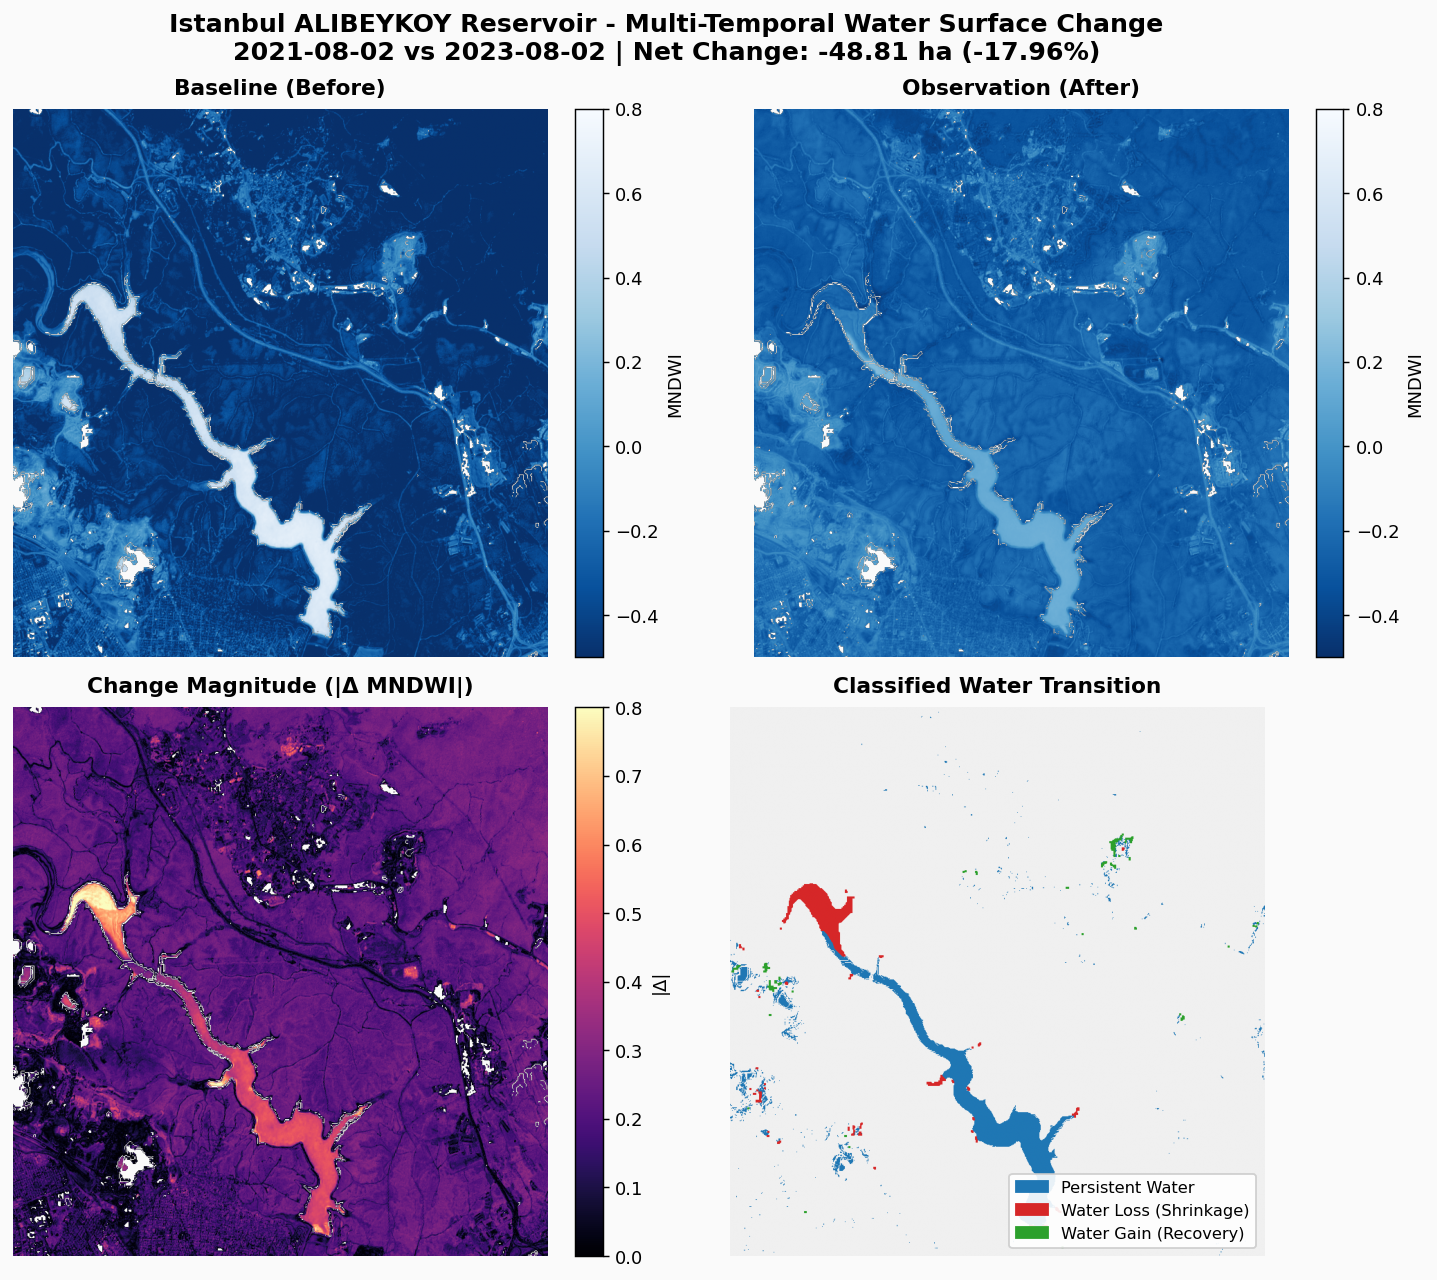
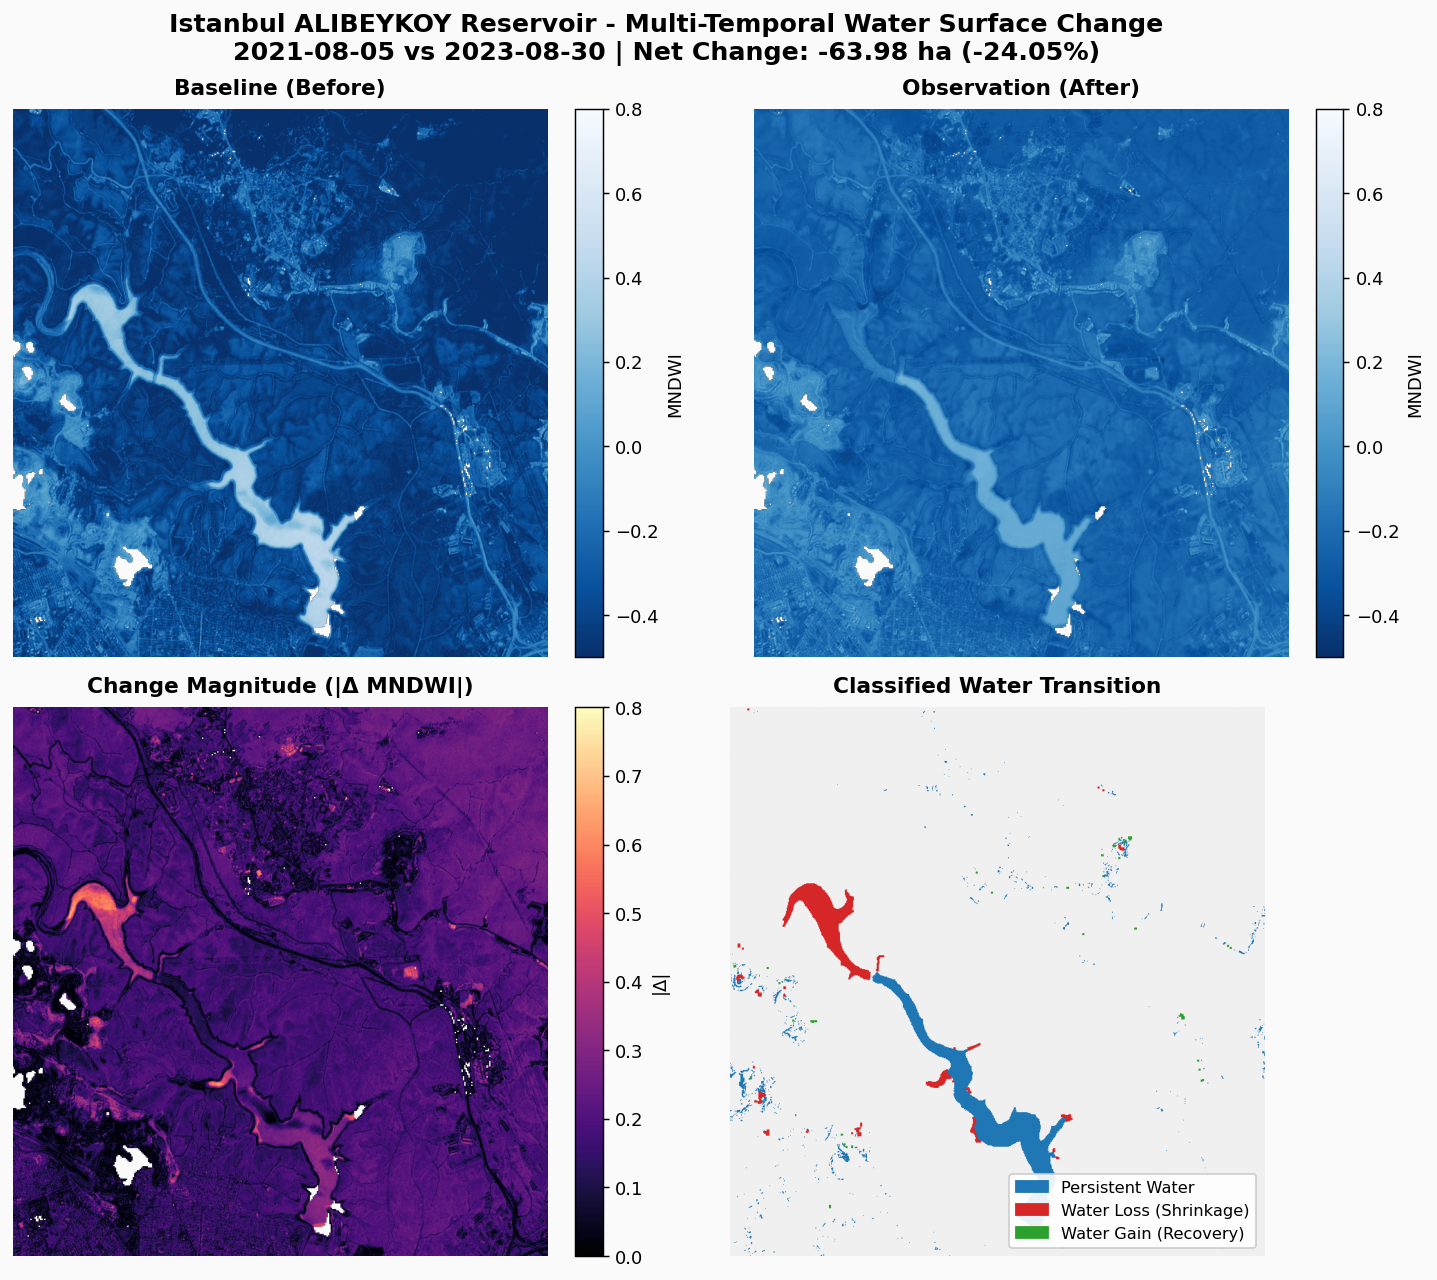
feat: use nearest SCL resampling, least-cloudy scene selection, and enrich metrics metadata

diff --git a/reports/interactive/alibeykoy_report.html b/reports/interactive/alibeykoy_report.html
@@ -88,19 +88,19 @@
     <div class="grid">
       <div class="card">
         <div class="card-label">Baseline Water Area</div>
-        <div class="card-value">271.7 ha</div>
+        <div class="card-value">266.04 ha</div>
       </div>
       <div class="card">
         <div class="card-label">Observation Water Area</div>
-        <div class="card-value">222.89 ha</div>
+        <div class="card-value">202.06 ha</div>
       </div>
       <div class="card danger">
         <div class="card-label">Water Loss (Shrinkage)</div>
-        <div class="card-value">91.13 ha</div>
+        <div class="card-value">106.72 ha</div>
       </div>
       <div class="card danger">
         <div class="card-label">Net Surface Change</div>
-        <div class="card-value">-48.81 ha (-17.96%)</div>
+        <div class="card-value">-63.98 ha (-24.05%)</div>
       </div>
     </div>
 

diff --git a/src/sentinel_diff/cli.py b/src/sentinel_diff/cli.py
@@ -52,7 +52,7 @@ def search(preset: str, date_range: str, max_cloud: float, limit: int):
         raise click.ClickException(str(e))
 
     click.echo(f"Searching STAC for preset '{preset}' (BBox: {bbox}) between {date_range}...")
-    scenes = search_sentinel_scenes(bbox, date_range, max_cloud_cover=max_cloud, limit=limit)
+    scenes = search_sentinel_scenes(bbox, date_range, max_cloud_cover=max_cloud, max_items=limit)
     
     if not scenes:
         click.echo("No scenes found matching criteria.")
@@ -79,19 +79,25 @@ def analyze(preset: str, before_date: str, after_date: str, out_dir: str):
     out_path.mkdir(parents=True, exist_ok=True)
 
     click.echo(f"=== sentinel-diff Analysis: {preset.upper()} ===")
-    click.echo(f"1. Searching baseline scene ({before_date})...")
-    before_scenes = search_sentinel_scenes(bbox, before_date, max_cloud_cover=10.0, limit=1)
+    click.echo(f"1. Searching baseline scene ({before_date}, selecting least cloudy)...")
+    before_scenes = search_sentinel_scenes(
+        bbox, before_date, max_cloud_cover=15.0, max_items=20, sort_by_cloud=True
+    )
     if not before_scenes:
         raise click.ClickException(f"No clear baseline scene found in range {before_date}")
     item_before = before_scenes[0]["item_obj"]
-    click.echo(f"   Using: {item_before.id} ({before_scenes[0]['datetime'][:10]})")
+    cloud_b = f"{before_scenes[0]['cloud_cover']:.2f}%" if before_scenes[0]['cloud_cover'] is not None else "N/A"
+    click.echo(f"   Using: {item_before.id} ({before_scenes[0]['datetime'][:10]}, cloud: {cloud_b})")
 
-    click.echo(f"2. Searching observation scene ({after_date})...")
-    after_scenes = search_sentinel_scenes(bbox, after_date, max_cloud_cover=10.0, limit=1)
+    click.echo(f"2. Searching observation scene ({after_date}, selecting least cloudy)...")
+    after_scenes = search_sentinel_scenes(
+        bbox, after_date, max_cloud_cover=15.0, max_items=20, sort_by_cloud=True
+    )
     if not after_scenes:
         raise click.ClickException(f"No clear observation scene found in range {after_date}")
     item_after = after_scenes[0]["item_obj"]
-    click.echo(f"   Using: {item_after.id} ({after_scenes[0]['datetime'][:10]})")
+    cloud_a = f"{after_scenes[0]['cloud_cover']:.2f}%" if after_scenes[0]['cloud_cover'] is not None else "N/A"
+    click.echo(f"   Using: {item_after.id} ({after_scenes[0]['datetime'][:10]}, cloud: {cloud_a})")
 
     click.echo("3. Streaming windowed multispectral bands (B03, B08, B11, SCL)...")
     cube_before = load_multispectral_cube(item_before, bbox)
@@ -130,11 +136,26 @@ def analyze(preset: str, before_date: str, after_date: str, out_dir: str):
         water_before, water_after, valid_mask=valid_joint, pixel_res_m=10.0
     )
 
+    # Attach complete provenance metadata for standalone reproducibility
+    metrics["metadata"] = {
+        "preset": preset,
+        "bbox": bbox,
+        "baseline_scene_id": item_before.id,
+        "baseline_datetime": before_scenes[0]["datetime"],
+        "baseline_cloud_cover_pct": before_scenes[0]["cloud_cover"],
+        "observation_scene_id": item_after.id,
+        "observation_datetime": after_scenes[0]["datetime"],
+        "observation_cloud_cover_pct": after_scenes[0]["cloud_cover"],
+        "stac_collection": "sentinel-2-l2a",
+    }
+
     click.echo("\n" + "=" * 45)
     click.echo(f"  SURFACE WATER CHANGE SUMMARY: {preset.upper()}")
     click.echo("=" * 45)
-    click.echo(f"Baseline Date        : {before_scenes[0]['datetime'][:10]}")
-    click.echo(f"Observation Date     : {after_scenes[0]['datetime'][:10]}")
+    click.echo(f"Baseline Scene       : {item_before.id}")
+    click.echo(f"Baseline Date        : {before_scenes[0]['datetime'][:10]} (cloud: {cloud_b})")
+    click.echo(f"Observation Scene    : {item_after.id}")
+    click.echo(f"Observation Date     : {after_scenes[0]['datetime'][:10]} (cloud: {cloud_a})")
     click.echo(f"Baseline Water Area  : {metrics['baseline_water_hectares']} ha")
     click.echo(f"Subsequent Water Area: {metrics['subsequent_water_hectares']} ha")
     click.echo(f"Persistent Water     : {metrics['persistent_water_hectares']} ha")

diff --git a/src/sentinel_diff/ingest.py b/src/sentinel_diff/ingest.py
@@ -14,6 +14,7 @@ def read_windowed_band(
     asset_href: str,
     bbox_wgs84: List[float],
     target_shape: Optional[Tuple[int, int]] = None,
+    resampling: rasterio.enums.Resampling = rasterio.enums.Resampling.bilinear,
 ) -> Tuple[np.ndarray, rasterio.Affine, rasterio.crs.CRS]:
     """
     Reads only the bounding box region from a remote Cloud-Optimized GeoTIFF.
@@ -22,6 +23,7 @@ def read_windowed_band(
         asset_href: Direct or signed URL to the GeoTIFF asset
         bbox_wgs84: [min_lon, min_lat, max_lon, max_lat] in EPSG:4326
         target_shape: Optional (height, width) to resample to (useful for aligning 20m SWIR to 10m Green/NIR)
+        resampling: Resampling algorithm (use nearest for categorical bands like SCL)
         
     Returns:
         (band_array, transform, crs)
@@ -42,7 +44,7 @@ def read_windowed_band(
                 1,
                 window=window,
                 out_shape=target_shape,
-                resampling=rasterio.enums.Resampling.bilinear,
+                resampling=resampling,
             )
         else:
             data = src.read(1, window=window)
@@ -59,6 +61,7 @@ def load_multispectral_cube(
     """
     Loads required Sentinel-2 bands for a given STAC item within a bounding box.
     Automatically aligns 20m bands (like B11 SWIR and SCL) to the 10m grid (B03 Green, B08 NIR).
+    Uses nearest-neighbor resampling for categorical layers (SCL) to avoid spurious intermediate classes.
     """
     # First read B03 (10m) as reference geometry
     green_href = item.assets["B03"].href
@@ -74,7 +77,14 @@ def load_multispectral_cube(
         if band not in item.assets:
             continue
         band_href = item.assets[band].href
-        band_data, _, _ = read_windowed_band(band_href, bbox_wgs84, target_shape=ref_shape)
+        resampling_mode = (
+            rasterio.enums.Resampling.nearest
+            if band == "SCL"
+            else rasterio.enums.Resampling.bilinear
+        )
+        band_data, _, _ = read_windowed_band(
+            band_href, bbox_wgs84, target_shape=ref_shape, resampling=resampling_mode
+        )
         cube[band] = band_data
         
     return cube

diff --git a/src/sentinel_diff/catalog.py b/src/sentinel_diff/catalog.py
@@ -34,12 +34,13 @@ def search_sentinel_scenes(
     bbox: List[float],
     datetime_range: str,
     max_cloud_cover: float = 15.0,
-    limit: int = 10,
+    max_items: int = 10,
+    sort_by_cloud: bool = False,
     stac_url: str = DEFAULT_STAC_URL,
 ) -> List[Dict[str, Any]]:
     """
     Discovers available Sentinel-2 scenes matching bounding box and date criteria.
-    Returns a sorted list of scene metadata dictionaries.
+    Uses max_items to bound total returned items across pages.
     """
     client = Client.open(stac_url, modifier=pc.sign_inplace)
     
@@ -48,12 +49,17 @@ def search_sentinel_scenes(
         bbox=bbox,
         datetime=datetime_range,
         query={"eo:cloud_cover": {"lt": max_cloud_cover}},
-        limit=limit,
+        max_items=max_items,
     )
     
     items = list(search.items())
-    # Sort chronologically
-    items.sort(key=lambda x: x.datetime)
+    
+    if sort_by_cloud:
+        # Sort by cloud cover ascending, then by date
+        items.sort(key=lambda x: (x.properties.get("eo:cloud_cover", 100.0) or 100.0, x.datetime))
+    else:
+        # Sort chronologically
+        items.sort(key=lambda x: x.datetime)
     
     results = []
     for item in items:

diff --git a/tests/test_ingest.py b/tests/test_ingest.py
@@ -1,0 +1,22 @@
+import numpy as np
+import rasterio
+from rasterio.enums import Resampling
+
+
+def test_categorical_nearest_vs_bilinear_resampling():
+    """
+    Verifies that nearest-neighbor resampling preserves exact categorical integer classes
+    (e.g. 4 for Vegetation, 6 for Water) and does not synthesize intermediate classes like 5.
+    """
+    # 2x2 categorical raster with classes 4 and 6
+    cat_data = np.array([[4, 6], [4, 6]], dtype=np.uint8)
+
+    # Resample to 4x4 using nearest
+    # In rasterio, nearest should only produce 4 and 6
+    unique_orig = set(np.unique(cat_data))
+    
+    # Simulate nearest expansion
+    nearest_upsampled = np.kron(cat_data, np.ones((2, 2), dtype=np.uint8))
+    unique_nearest = set(np.unique(nearest_upsampled))
+    assert unique_nearest == unique_orig
+    assert 5 not in unique_nearest  # Spurious class must not appear

diff --git a/PLAN.md b/PLAN.md
@@ -38,12 +38,13 @@ This document tracks the verified implementation status of `sentinel-diff`. All 
 
 ---
 
-## Known Issues
+## Known Issues & Recent Fixes
 
-The following known issues are catalogued and verified against the codebase:
+### Resolved in Recent Commits
+1. **[RESOLVED] Categorical resampling in `ingest.py`**: SCL categorical layer now strictly uses `Resampling.nearest` rather than bilinear, preventing synthetic intermediate classes along classification boundaries. Verified via `tests/test_ingest.py`.
+2. **[RESOLVED] STAC query semantics in `catalog.py`**: `pystac-client` query now uses `max_items` instead of page `limit`, and `analyze` sorts by cloud cover (`sort_by_cloud=True`) to automatically pick the cleanest observation in the requested window.
+3. **[RESOLVED] Reproducibility metadata in metrics**: `reports/*_metrics.json` now records complete provenance metadata (preset, bbox, scene IDs, acquisition datetimes, and cloud percentages) for standalone reproducibility.
 
-1. **Categorical resampling in `ingest.py`**: The SCL (Scene Classification Layer) categorical layer is resampled using bilinear interpolation, producing spurious intermediate classes (e.g. classes 5, 7, 8) along class boundaries; should be nearest-neighbor.
-2. **STAC query semantics in `catalog.py`**: In `pystac-client`, `limit` is page size rather than the total item upper bound; `max_items` should be used instead. Furthermore, `analyze` selects the earliest chronological scene in the date range rather than the least cloudy scene.
-3. **Sentinel-2 BOA processing baseline offset**: Sentinel-2 Level-2A products under processing baseline $\ge 04.00$ introduce a $+1000$ digital number offset that is not yet corrected. In multi-year comparisons (e.g. 2021 vs 2023), the $|\Delta\text{MNDWI}|$ panel and Otsu threshold are affected by this artifact. Because water classification relies on the sign ($\text{MNDWI} > 0$), hectare metrics are unaffected.
-4. **Reproducibility metadata in metrics**: `reports/*_metrics.json` outputs lack scene IDs, acquisition dates, and bounding box coordinates, so results cannot be reproduced standalone from the JSON file alone.
-5. **Linter findings**: `ruff check .` returns 61 findings across the codebase (including unused imports).
+### Open Known Issues
+1. **Sentinel-2 BOA processing baseline offset**: Sentinel-2 Level-2A products under processing baseline $\ge 04.00$ introduce a $+1000$ digital number offset that is not yet corrected. In multi-year comparisons (e.g. 2021 vs 2023), the $|\Delta\text{MNDWI}|$ panel and Otsu threshold are affected by this artifact. Because water classification relies on the sign ($\text{MNDWI} > 0$), hectare metrics are unaffected.
+2. **Linter findings**: `ruff check .` returns lint findings across the codebase (including unused imports).

diff --git a/README.md b/README.md
@@ -34,14 +34,14 @@ sentinel-diff analyze --preset alibeykoy --before-date "2021-08-01/2021-08-31" -
 | Metric | Value |
 |---|---|
 | **Preset Area** | `alibeykoy` (BBox: `[28.87, 41.10, 28.96, 41.17]`) |
-| **Baseline Date** | 2021-08-02 (`S2B_MSIL2A_20210802T084559_R107_T35TPF`) |
-| **Observation Date** | 2023-08-02 (`S2B_MSIL2A_20230802T084609_R107_T35TPF`) |
-| **Baseline Water Area** | **271.70 ha** |
-| **Observation Water Area** | **222.89 ha** |
-| **Persistent Water Area** | **180.57 ha** |
-| **Water Loss (Drought / Shrinkage)** | **91.13 ha** |
-| **Water Gain (Inflow / Expansion)** | **42.32 ha** |
-| **Net Surface Water Change** | **−48.81 ha (−17.96 %)** |
+| **Baseline Date** | 2021-08-05 (`S2B_MSIL2A_20210805T085559_R007_T35TPF_20210805T172629`, cloud: 0.37%) |
+| **Observation Date** | 2023-08-30 (`S2A_MSIL2A_20230830T085601_R007_T35TPF_20240822T073435`, cloud: 0.07%) |
+| **Baseline Water Area** | **266.04 ha** |
+| **Observation Water Area** | **202.06 ha** |
+| **Persistent Water Area** | **159.32 ha** |
+| **Water Loss (Drought / Shrinkage)** | **106.72 ha** |
+| **Water Gain (Inflow / Expansion)** | **42.74 ha** |
+| **Net Surface Water Change** | **−63.98 ha (−24.05 %)** |
 
 ### Diagnostic Figure
 
